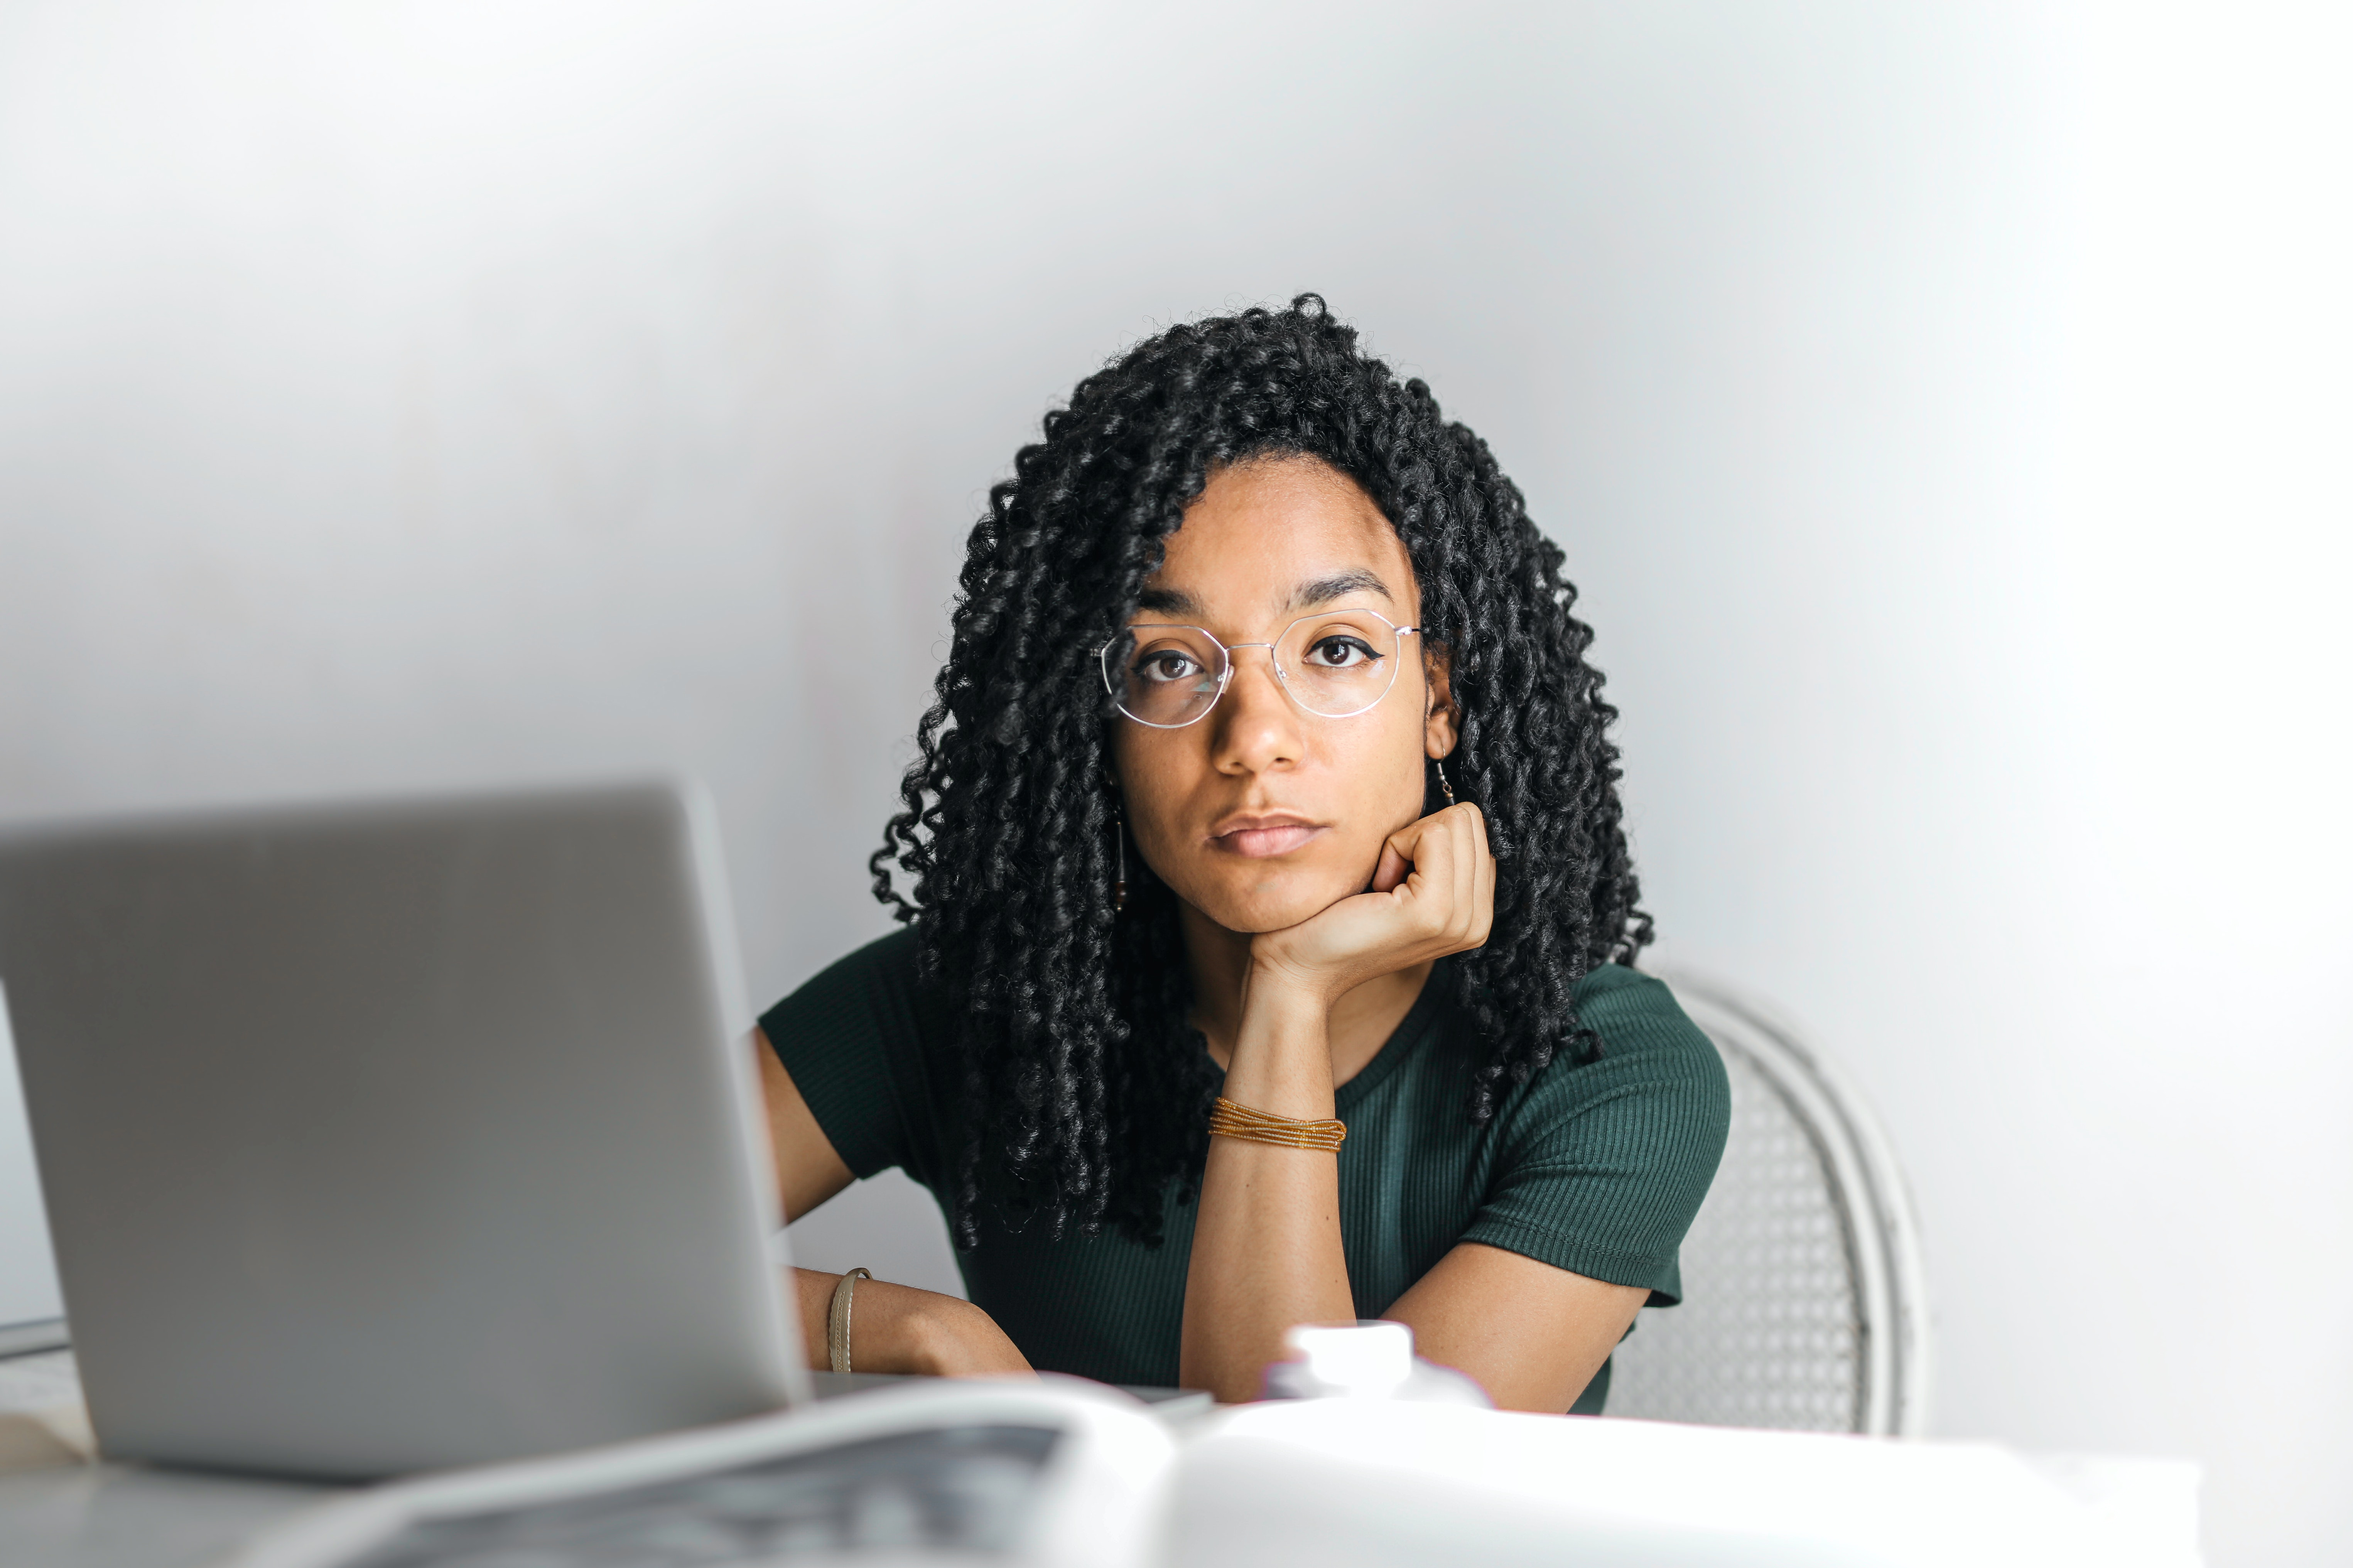
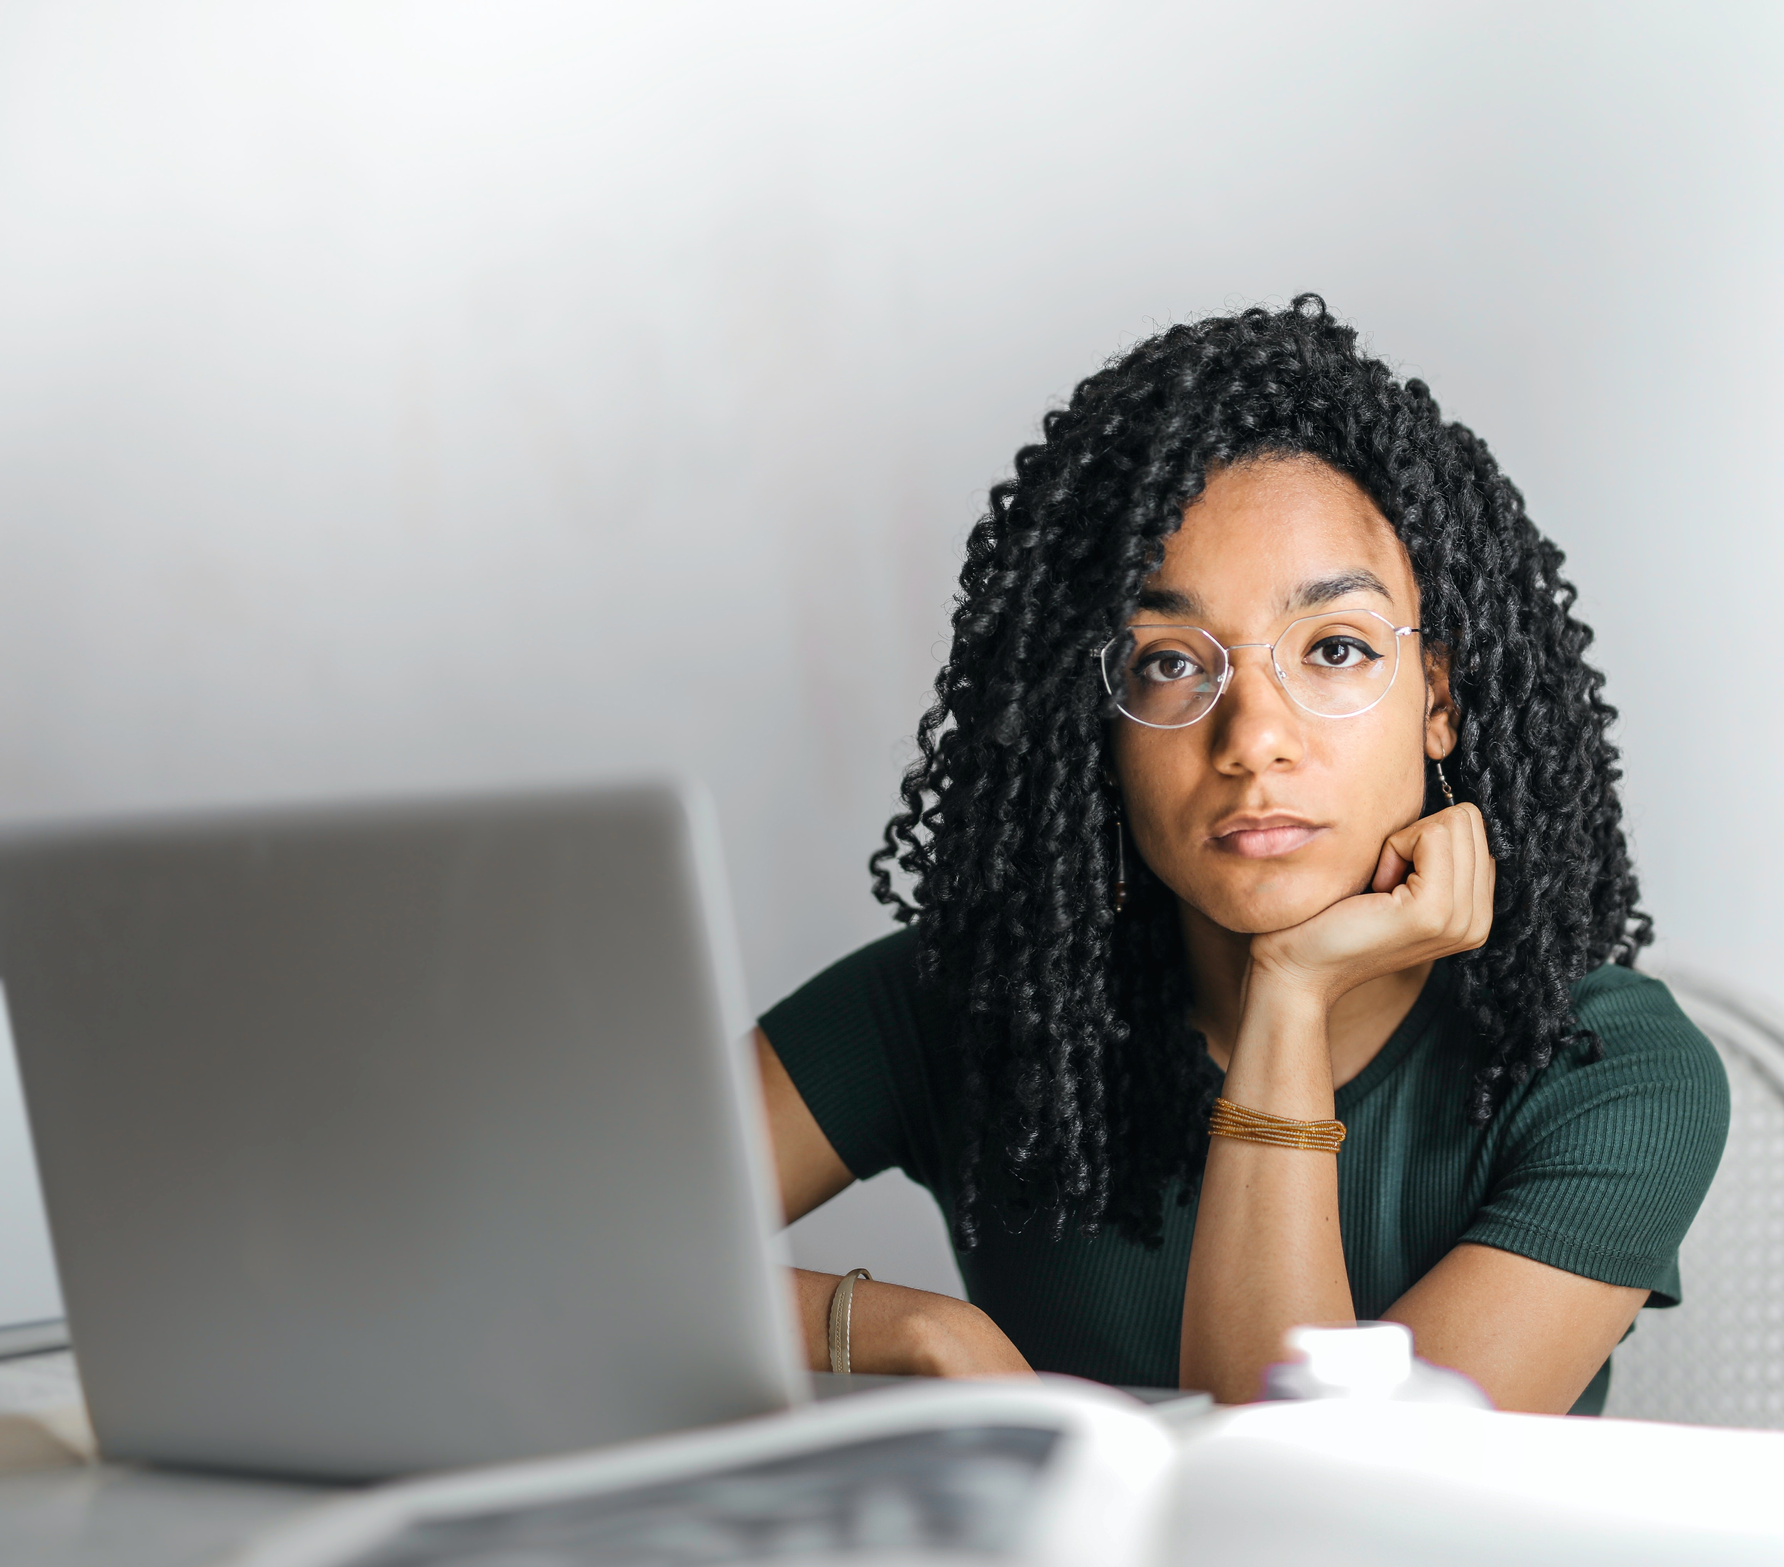
started making desktop media queries

diff --git a/src/mediaQueries.css b/src/mediaQueries.css
@@ -1,0 +1,63 @@
+@media ( min-width: 1200px ) {
+  br {
+    display: none;
+  }
+  .App .introSection {
+    max-width: 100%;
+    display: grid;
+    grid-template-columns: 40% 60%;
+    align-items: center;
+    margin: 20px;
+  }
+  .App h1 {
+    max-width: 100%;
+    margin-left: 50px;
+  }
+  .App .introSection .intro img {
+    max-width: 100%;
+    align-self: center;
+    border-radius: 0;
+  }
+
+  /* desktop style for AboutMe component */
+  .aboutMe .content {
+    background-color: transparent;
+  }
+  .aboutMe {
+    max-height: 80%;
+    background-color: rgba(255, 255, 255, 0.7);
+    border-radius: 0 5px 5px 0;
+  }
+  .aboutMe h1 {
+    font-size: 2.5rem;
+    color: black;
+    text-align: start;
+    text-indent: 20px;
+    margin: 0;
+    margin-top: 10px;
+  }
+  .aboutMe p {
+    margin: 0;
+  }
+  .aboutMe .iconContainer {
+    margin: 0;
+    justify-content: right;
+    margin-top: 25px;
+  }
+  .aboutMe .iconContainer img {
+    border-radius: 5px;
+  }
+  .aboutMe .iconContainer img:hover {
+    cursor: pointer;
+    background-color: rgba(255, 255, 255, 0.2);
+  }
+
+  /* desktop style for MyWork component */
+  .myWork .projectContainer {
+    grid-template-columns: repeat( 3, 1fr );
+  }
+  .myWork h1 {
+    text-align: start;
+    margin-left: 50px;
+  }
+}

diff --git a/src/main.css b/src/main.css
@@ -11,6 +11,16 @@ body {
   margin: 0;
 }
 
+.App {
+  display: flex;
+  flex-direction: column;
+}
+
+.App .introSection {
+  display: flex;
+  flex-direction: column;
+}
+
 p {
   font-family: 'Roboto', sans-serif;
   font-size: 100%;
@@ -52,11 +62,11 @@ img {
   filter: brightness(0) saturate(100%);
 }
 
-/* styling for Intro component */
-.intro h1 {
+.App h1 {
   margin-left: 25px;
 }
 
+/* styling for Intro component */
 picture {
   display: flex;
   justify-content: center;
@@ -123,13 +133,14 @@ picture {
   max-width: 100%;
   display: flex;
   flex-direction: row;
-  justify-content: space-around;
+  justify-content: space-between;
 }
 
 .projectCard header .iconContainer {
   align-items: center;
   margin: 0;
   grid-template-columns: repeat( 3, 40px);
+  justify-content: flex-end;
 }
 
 /* styling for ContactMe component */

diff --git a/src/App.js b/src/App.js
@@ -16,9 +16,12 @@ const App = () => {
   const { projectList } = data;
 
   return (
-    <div>
-      <Intro/>
-      <AboutMe github={ github } linkedIn={ linkedIn } twitter={ twitter }/>
+    <div className='App'>
+      <h1>Akmal <br/> Izuddin</h1>
+      <div className='introSection'>
+        <Intro/>
+        <AboutMe github={ github } linkedIn={ linkedIn } twitter={ twitter }/>
+      </div>
       <MyWork array={ projectList } github={ github } openLink={ openLink }/>
       <ContactMe github={ github } linkedIn={ linkedIn } twitter={ twitter }/>
     </div>

diff --git a/src/assets/Intro.js b/src/assets/Intro.js
@@ -1,15 +1,14 @@
 import React from 'react';
 
 import picMobile from './image/introMobile.jpg'
+import picDesktop from './image/intro.jpg';
 
 const Intro = () => {
-  const mobile = picMobile;
-
   return (
     <div className='intro'>
-      <h1>Akmal <br/> Izuddin</h1>
       <picture>
-        <img src={ mobile } alt='Akmal Izuddin' />
+        <source srcSet={ picDesktop } media='( min-width: 1000px )'/>
+        <img src={ picMobile } alt='Akmal Izuddin' />
       </picture>
     </div>
   );

diff --git a/src/assets/projectData.js b/src/assets/projectData.js
@@ -19,6 +19,12 @@ const data = { projectList: [
     name: 'Project 003',
     desc: 'Short description of project. Just a couple of sentences will do.',
   },
+  {
+    id: '04',
+    projectImg: placeholderImg,
+    name: 'Project 004',
+    desc: 'Short description of project. Just a couple of sentences will do.',
+  },
 ]};
 
 export { data };

diff --git a/src/index.js b/src/index.js
@@ -3,6 +3,7 @@ import ReactDOM from 'react-dom/client';
 import { App } from './App';
 
 import './main.css';
+import './mediaQueries.css';
 
 const root = ReactDOM.createRoot(document.getElementById('root'));
 root.render(
